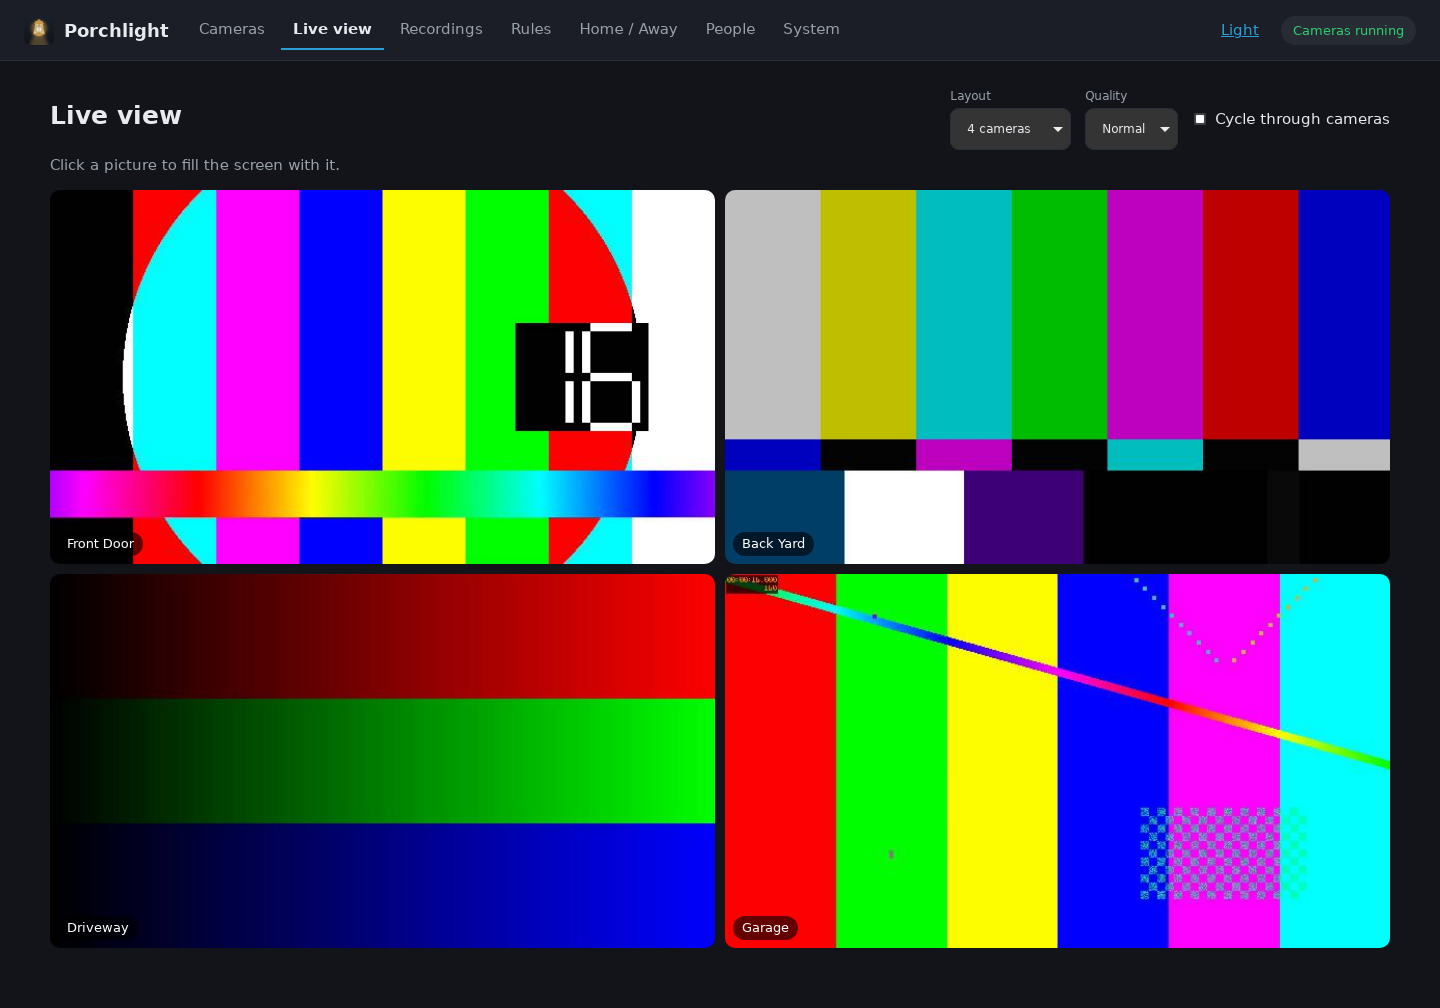
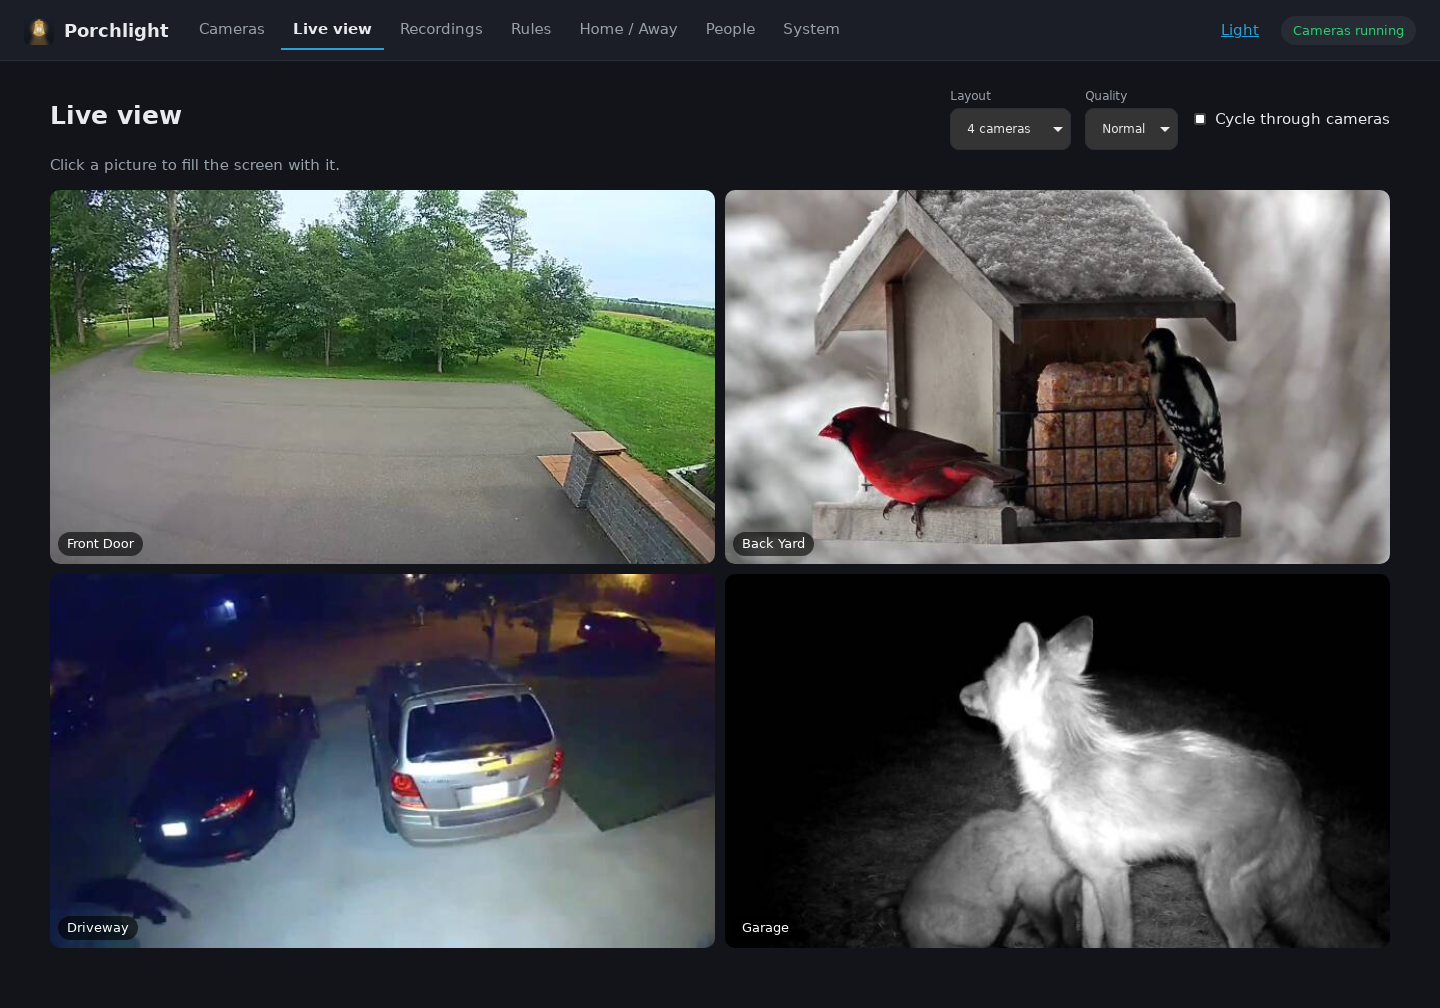
Real camera footage in the screenshots, image thumbnails for recordings
The demo cameras were ffmpeg test patterns, so every screenshot showed
color bars instead of anything resembling a security camera. The shoot
now feeds ZoneMinder public-domain clips from Wikimedia Commons (home
camera, bird feeder, night driveway, trail camera); shots.py falls back
to a generated pattern when a clip is missing.

Recording cards also swapped their <video preload=metadata> thumbnails
for ZoneMinder's event snapshot image (view=image&fid=snapshot): one
small JPEG per card instead of a zms stream, and it renders everywhere -
the video trick drew a black box in the screenshot browser and any other
browser without the right codecs.

diff --git a/web/app.js b/web/app.js
@@ -700,10 +700,8 @@ async function loadRecordings(reset) {
 function recCard(e) {
   const cam = state.cameras.find((c) => String(c.id) === String(e.monitor));
   return el("div", { class: "card" },
-    // Recordings are saved as video, not stills, so the first frame of the clip
-    // itself is the thumbnail.
-    el("video", { class: "thumb", src: e.video + "#t=0.5", preload: "metadata", muted: true,
-                  onclick: () => playEvent(e) }),
+    el("img", { class: "thumb", src: e.thumb, alt: "", loading: "lazy",
+                onclick: () => playEvent(e) }),
     el("div", { class: "body" },
       el("div", { class: "title" }, (cam ? cam.name : "Camera " + e.monitor)),
       el("div", { class: "muted" }, e.start + " · " + Math.round(Number(e.length || 0)) + "s"

diff --git a/shots.py b/shots.py
@@ -2,6 +2,9 @@
 """Fill ZoneMinder with demo cameras and take the README screenshots.
 
 Runs inside the test container: python3 /src/scripts_shots.py /src/screenshots
+
+Drop real 1280x720 clips at /var/cache/zoneminder/demo/<slug>.mp4 beforehand for
+lifelike screenshots; any missing clip becomes a generated test pattern.
 """
 
 import json
@@ -13,8 +16,8 @@ import urllib.request
 
 BASE = "http://127.0.0.1:8321"
 OUT = sys.argv[1] if len(sys.argv) > 1 else "/src/screenshots"
-CAMERAS = [("Front Door", "testsrc"), ("Back Yard", "smptebars"),
-           ("Driveway", "rgbtestsrc"), ("Garage", "testsrc2")]
+CAMERAS = [("Front Door", "front-door"), ("Back Yard", "back-yard"),
+           ("Driveway", "driveway"), ("Garage", "garage")]
 
 
 def call(path, body=None):
@@ -36,10 +39,10 @@ os.makedirs(OUT, exist_ok=True)
 SETUP = len(get("cameras")) != len(CAMERAS)   # demo data survives between runs
 if SETUP:
     sh("mkdir -p /var/cache/zoneminder/demo")
-    for name, pattern in CAMERAS:
-        f = "/var/cache/zoneminder/demo/%s.mp4" % pattern
-        sh("test -f %s || ffmpeg -loglevel quiet -f lavfi -i %s=size=1280x720:rate=10 -t 30 "
-           "-pix_fmt yuv420p -y %s" % (f, pattern, f))
+    for name, clip in CAMERAS:
+        f = "/var/cache/zoneminder/demo/%s.mp4" % clip
+        sh("test -f %s || ffmpeg -loglevel quiet -f lavfi -i testsrc2=size=1280x720:rate=10 -t 30 "
+           "-pix_fmt yuv420p -y %s" % (f, f))
     sh("chown -R www-data:www-data /var/cache/zoneminder/demo")
 
     for old in get("cameras"):
@@ -47,9 +50,9 @@ if SETUP:
     for ev in get("events?limit=200")["events"]:      # recordings of long-gone cameras
         call("event/action", {"id": ev["id"], "action": "delete"})
     ids = []
-    for name, pattern in CAMERAS:
+    for name, clip in CAMERAS:
         ids.append(call("camera/add", {"name": name, "kind": "file", "width": 1280, "height": 720,
-                                       "path": "/var/cache/zoneminder/demo/%s.mp4" % pattern,
+                                       "path": "/var/cache/zoneminder/demo/%s.mp4" % clip,
                                        "function": "Mocord"})["id"])
 
     call("rule/save", {"name": "Email me at night", "cameras": ids[:2], "what": "motion",

diff --git a/server/porchlight_server.py b/server/porchlight_server.py
@@ -293,6 +293,7 @@ def h_events(q):
             "frames": ev.get("Frames"), "alarm": ev.get("AlarmFrames"),
             "cause": ev.get("Cause"), "archived": ev.get("Archived") in ("1", 1),
             "video": zmapi.video_url(ev["Id"]),
+            "thumb": zmapi.thumb_url(ev["Id"]),
             "replay": zmapi.event_replay_url(ev["Id"]),
         })
     return {"events": out, "pagination": r.get("pagination", {})}

diff --git a/server/zmapi.py b/server/zmapi.py
@@ -155,6 +155,10 @@ def video_url(eid):
     return media_url("/index.php?view=view_video&eid=%s" % eid)
 
 
+def thumb_url(eid):
+    return media_url("/index.php?view=image&eid=%s&fid=snapshot&width=640" % eid)
+
+
 def event_replay_url(eid, scale=100):
     return media_url("/cgi-bin/nph-zms?mode=jpeg&source=event&event=%s&scale=%s&replay=single&connkey=%d"
                      % (eid, scale, connkey()))

diff --git a/README.md b/README.md
@@ -144,3 +144,7 @@ python3 e2e_drive.py       # full end-to-end run, needs a working ZoneMinder
 python3 shots.py OUTDIR    # demo data + the screenshots above (needs Xvfb)
 python3 tools/make_icon.py porchlight.png logo48.png   # redraws the app icon
 ```
+
+The camera footage in the screenshots is public-domain video from Wikimedia
+Commons: a home security camera on Prince Edward Island, a snowy bird feeder,
+a suburban driveway at night, and a US Fish & Wildlife trail camera.
